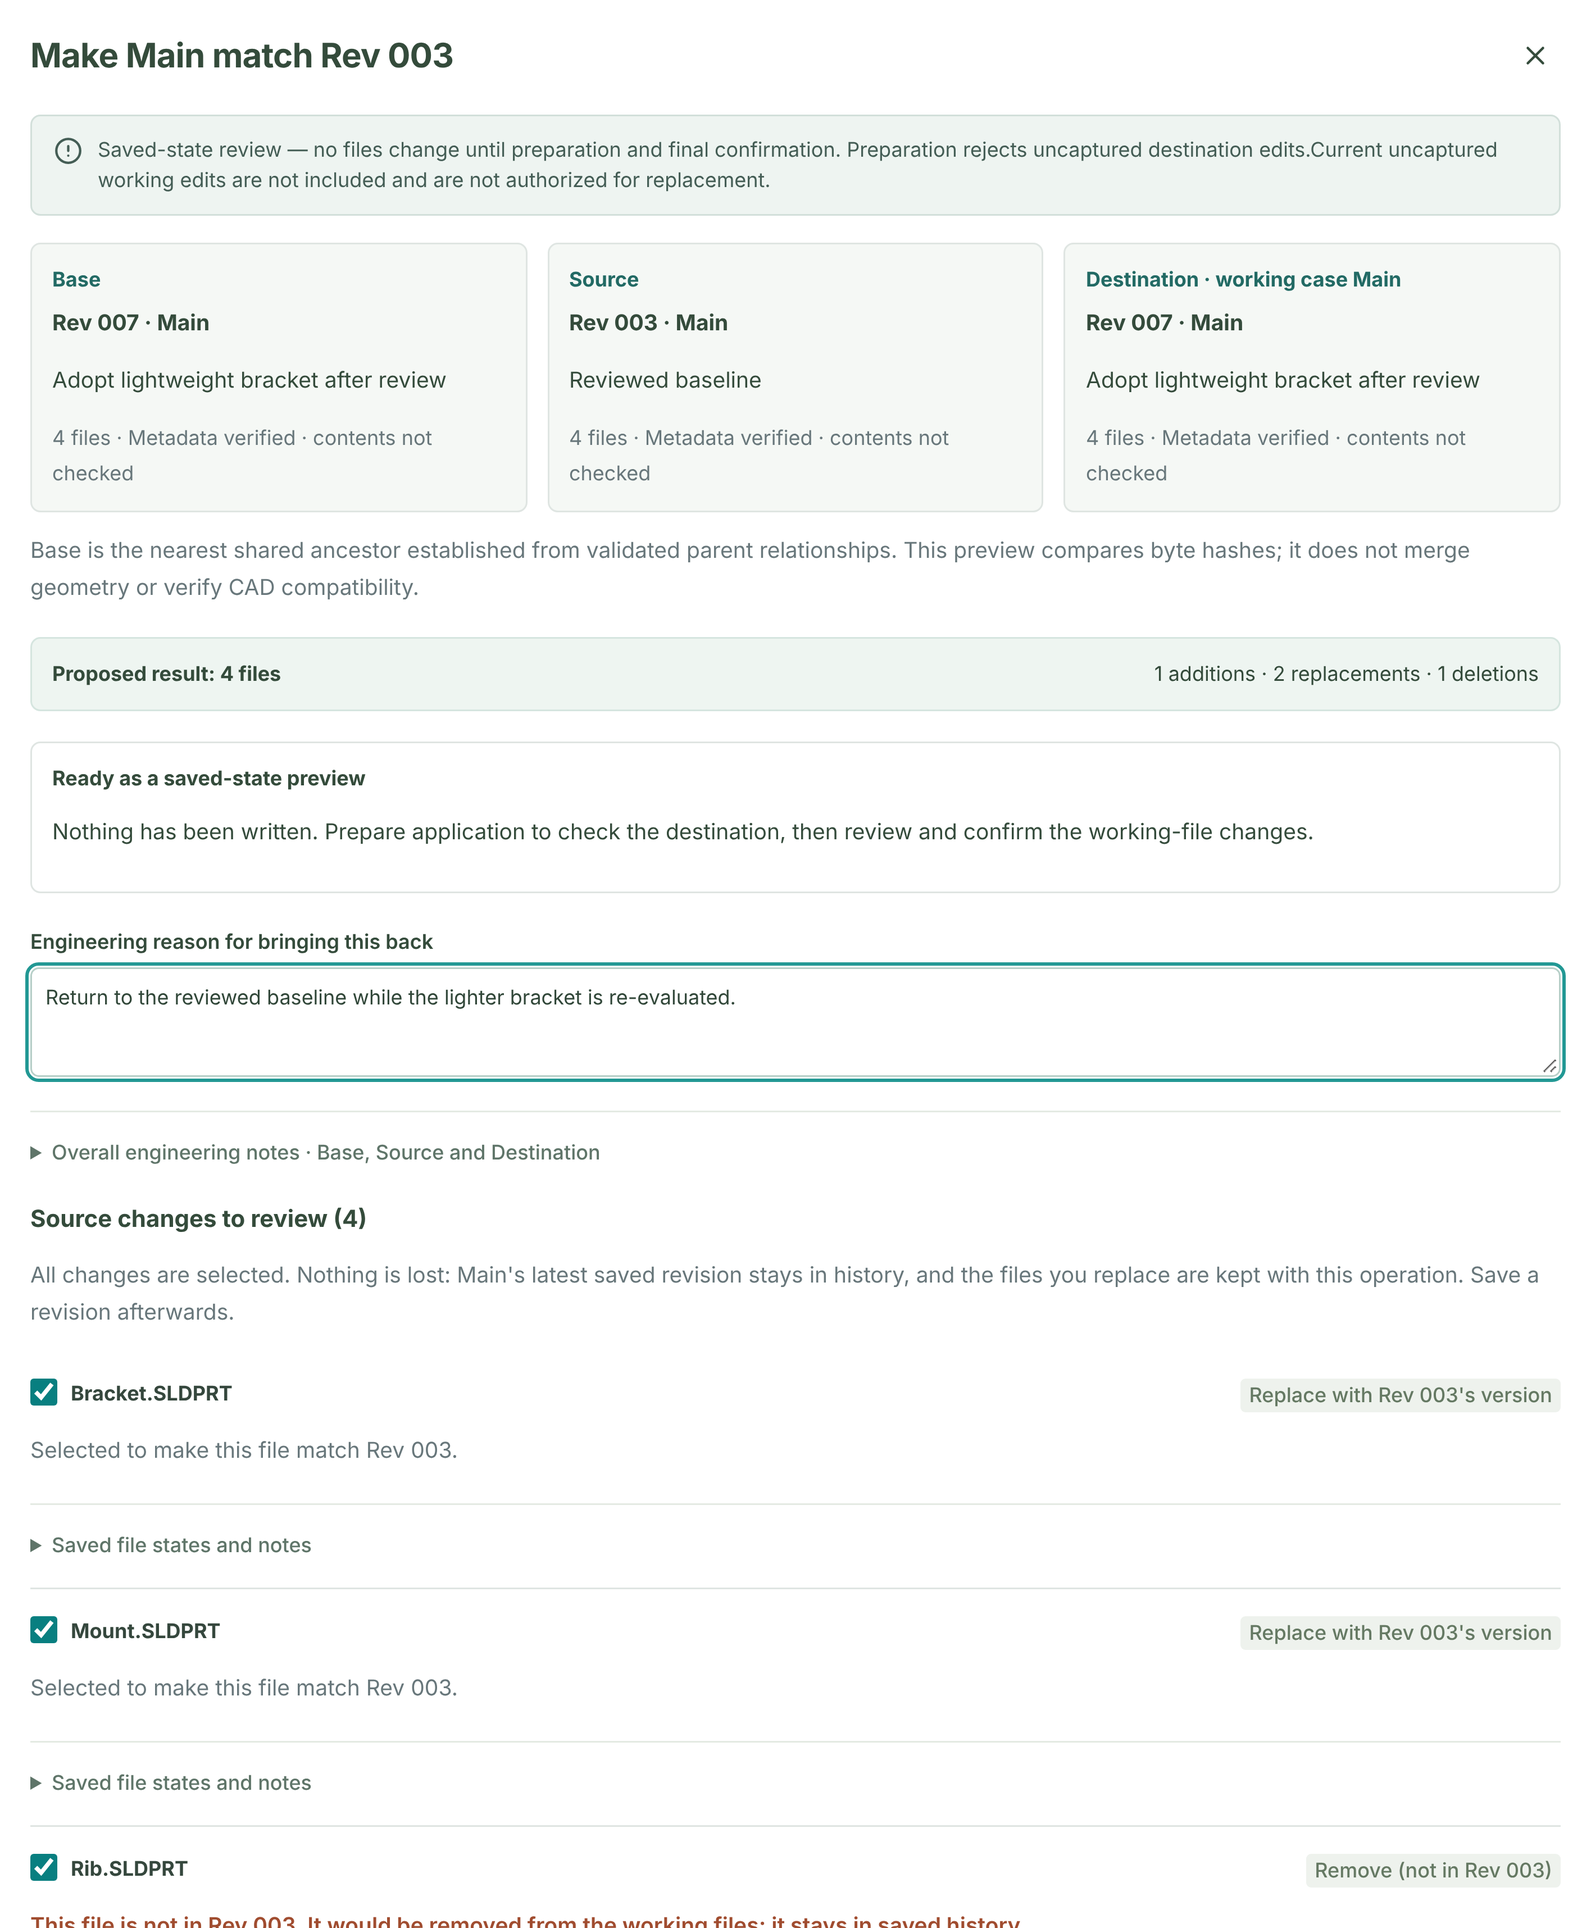
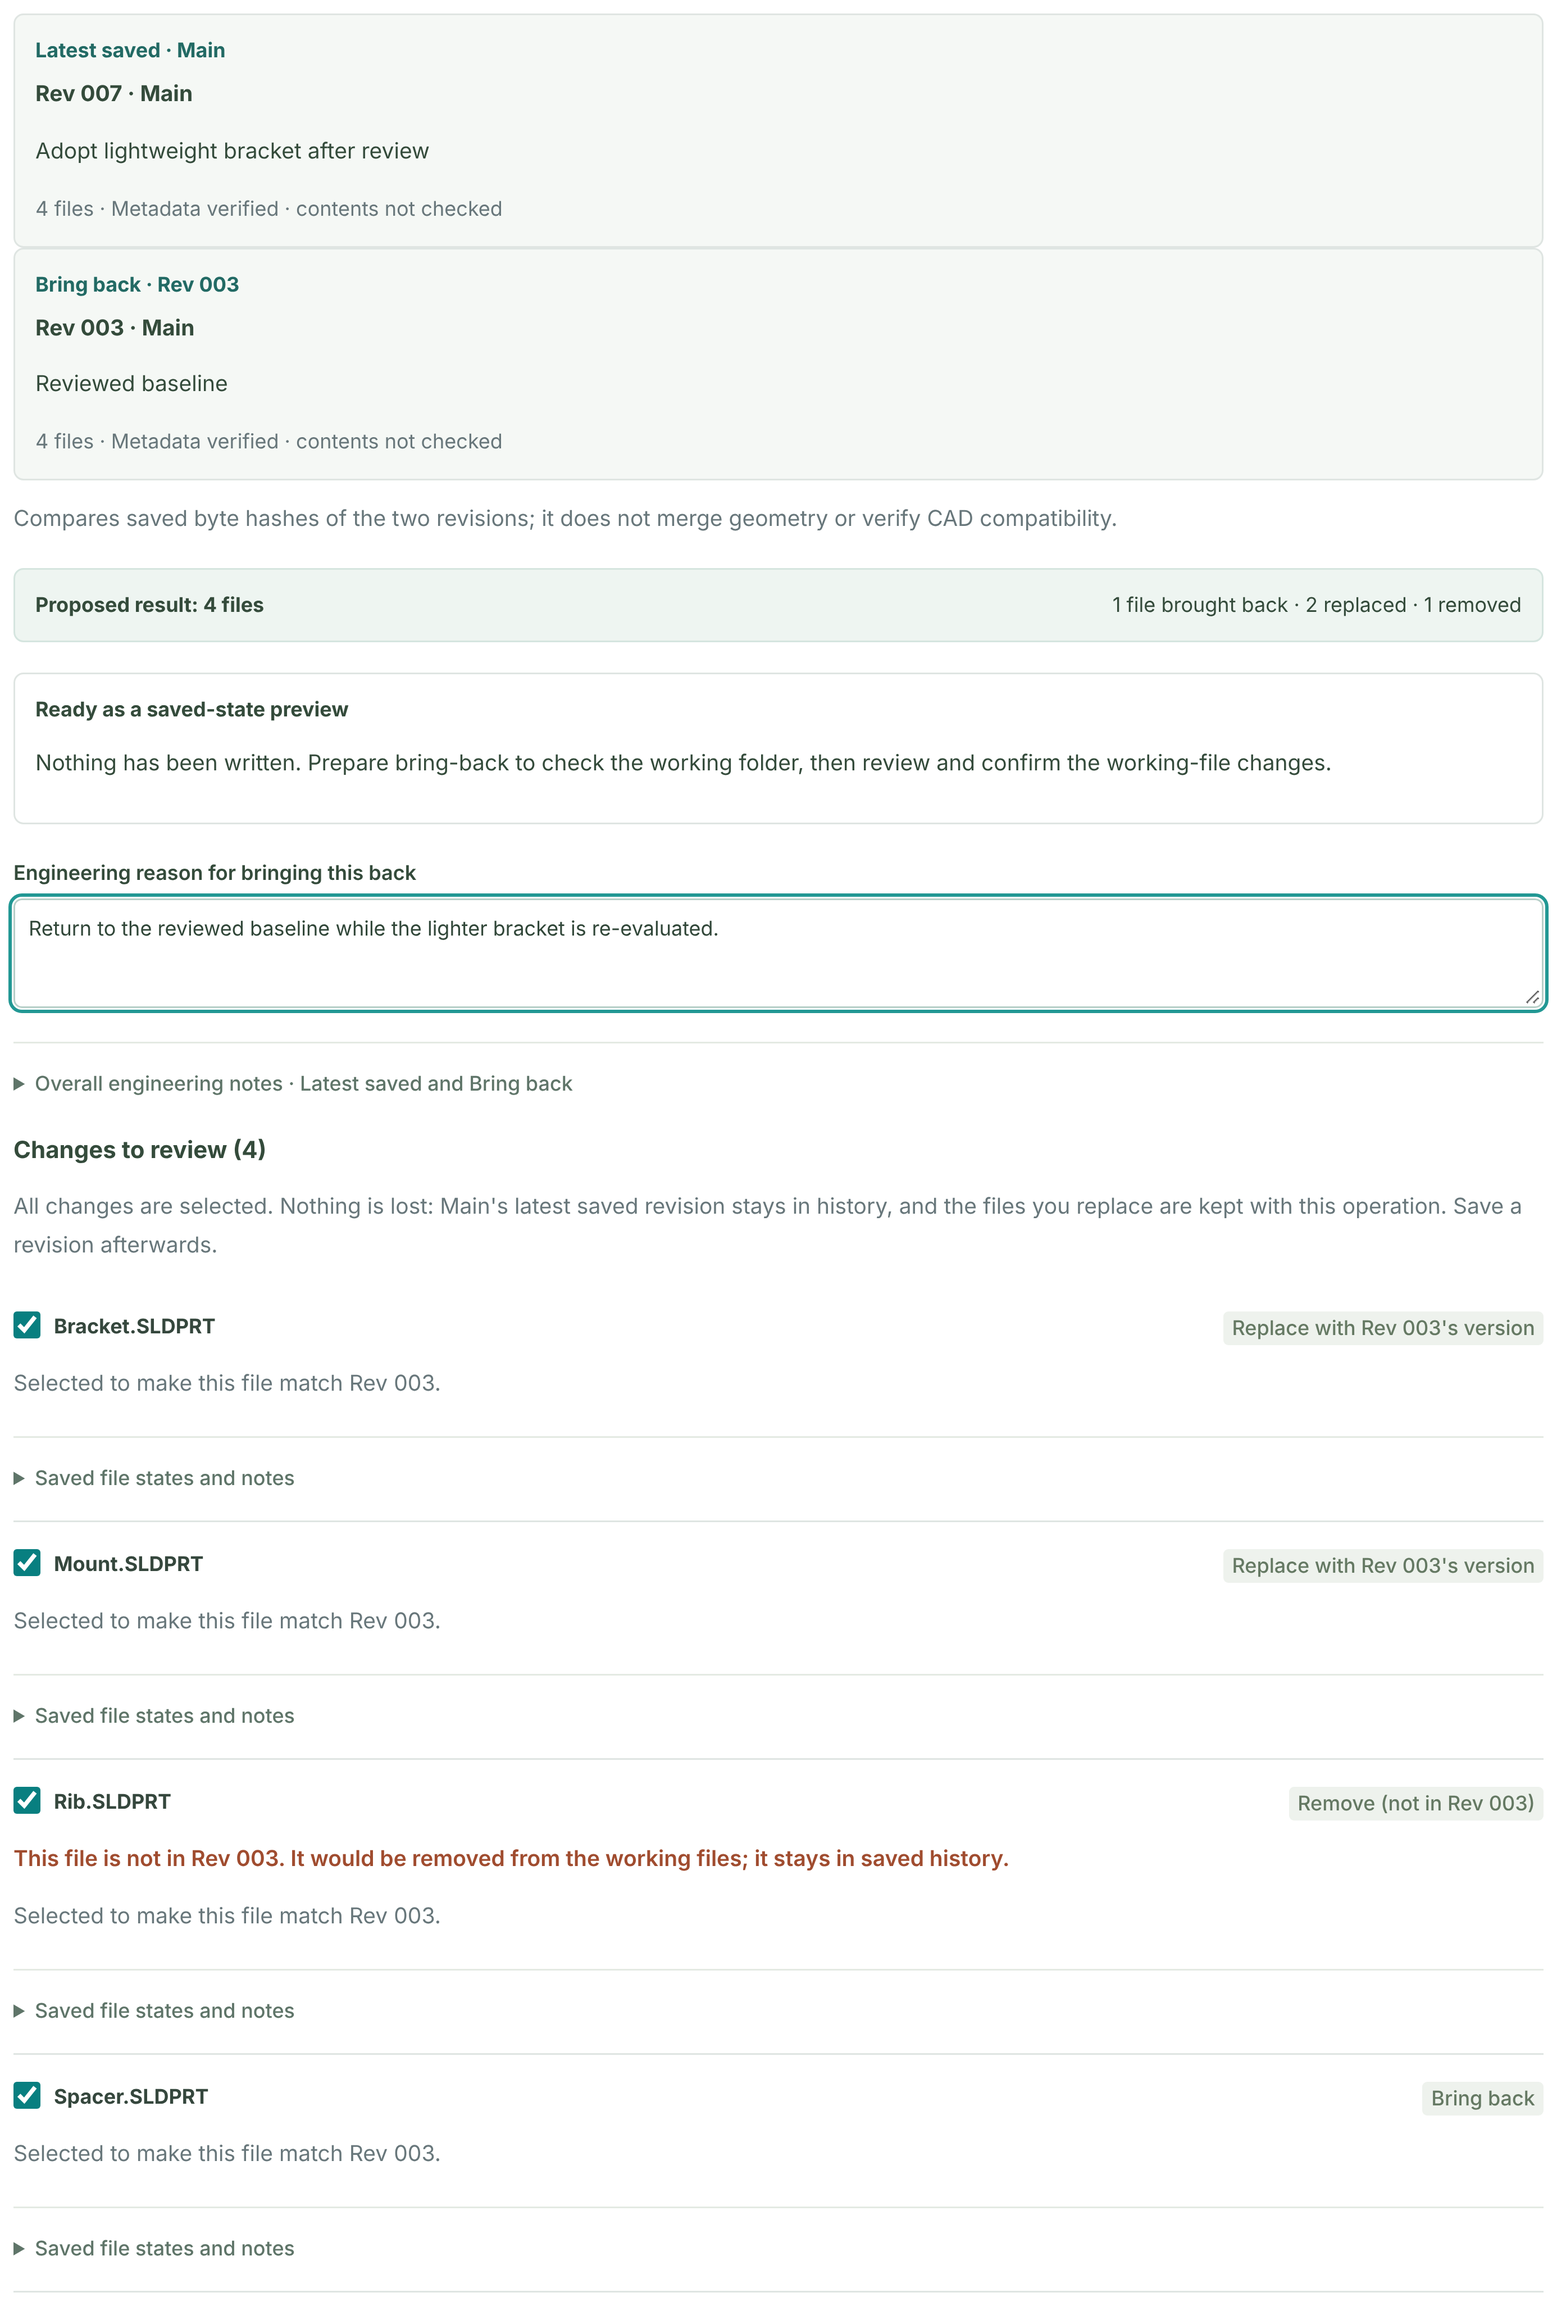
Tutorial 5: recapture step 6 after dialog wording fix
Claude-Session: https://claude.ai/code/session_01Vt2Eua9vd43gKbggwAgC8h

diff --git a/src/tutorials/compare-apply-recover.ts b/src/tutorials/compare-apply-recover.ts
@@ -157,7 +157,7 @@ export const COMPARE_APPLY_RECOVER_TUTORIAL: TutorialDefinition = {
         },
         {
           src: "/tutorials/compare-apply-recover/step-6-bring-back-review.png",
-          alt: "Real Bring back an earlier revision preview shows the pre-selected differences between Main and Rev 003 and the Engineering reason for bringing this back field.",
+          alt: "Real Make Main match Rev 003 review shows Latest saved Rev 007 and Bring back Rev 003 cards, the count 1 file brought back, 2 replaced, 1 removed, the Engineering reason for bringing this back field and four pre-selected changes: Bracket and Mount replaced, Rib removed, Spacer brought back.",
           caption: "2. Review the pre-selected changes, give the reason and click Prepare bring-back.",
           kind: "cadtree",
         },

diff --git a/docs/tutorial-5.md b/docs/tutorial-5.md
@@ -159,7 +159,7 @@ Asset: [step-6-bring-back-action.png](../public/tutorials/compare-apply-recover/
 
 Visual 2 (cAdtree): **2. Review the pre-selected changes, give the reason and click Prepare bring-back.**
 
-Alt text: Real Bring back an earlier revision preview shows the pre-selected differences between Main and Rev 003 and the Engineering reason for bringing this back field.
+Alt text: Real Make Main match Rev 003 review shows Latest saved Rev 007 and Bring back Rev 003 cards, the count 1 file brought back, 2 replaced, 1 removed, the Engineering reason for bringing this back field and four pre-selected changes: Bracket and Mount replaced, Rib removed, Spacer brought back.
 
 Asset: [step-6-bring-back-review.png](../public/tutorials/compare-apply-recover/step-6-bring-back-review.png)
 
@@ -283,9 +283,9 @@ All paths below are under `public/tutorials/compare-apply-recover/`.
[12 lines of base64/hex data omitted]
